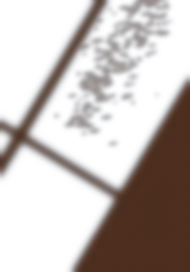
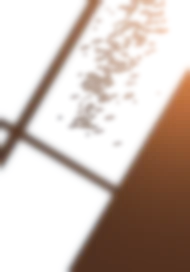
Widen A mood light phases and move 1x1 caption off the shoes

diff --git a/feature/widget/src/main/assets/mood/compose_ref.py b/feature/widget/src/main/assets/mood/compose_ref.py
@@ -18,7 +18,7 @@ MYEONG = REPO / 'core/designsystem/src/main/res/font/nanum_myeongjo.ttf'
 SERIF_IT = ('/System/Library/Fonts/Supplemental/PTSerif.ttc', 1)  # stand-in for Noto Serif Italic
 W, H, Q = 760, 1088, 4
 WEATHERS = ('sunny', 'cloudy', 'rain', 'night')
-PHASES = (0.0, 0.35, 0.7)
+PHASES = (0.0, 0.5, 1.0)
 RIM_D, RIM_COLOR, RIM_ALPHA = 4, (176, 168, 158), 0.75
 
 # ---------------------------------------------------------------- layout (the JSON contract) ----
@@ -36,7 +36,7 @@ SHOES = lambda cx=.40, cy=.93, r=-5: slot(cx, cy, 78, 3.6, r, 5)
 LAYOUT = {
     'size': [W, H], 'lightScale': Q,
     'shadeMax': {'sunny': 0.38, 'cloudy': 0.22, 'rain': 0.26, 'night': 0.30},
-    'lightMax': {'sunny': 0.24, 'cloudy': 0.10, 'rain': 0.14, 'night': 0.22},
+    'lightMax': {'sunny': 0.24, 'cloudy': 0.10, 'rain': 0.22, 'night': 0.28},
     'grainAlpha': 0.22, 'vignette': 0.30,
     'garmentGrade': {'sunny': {'multiply': '#FFEFDC', 'saturation': 0.90},
                      'cloudy': {'multiply': '#F2EEE8', 'saturation': 0.84},
@@ -60,7 +60,7 @@ LAYOUT = {
              'layouts': {'top_bottom': {'bottom': mslot(.62, .56, 370, .52, -4, 1), 'top': mslot(.42, .38, 245, 1.06, -12, 2),
                                         'shoes': mslot(.66, .90, 52, 3.6, -6, 3)},
                          'dress': {'dress': mslot(.52, .52, 450, .62, -4, 1), 'shoes': mslot(.66, .90, 52, 3.6, -6, 2)}},
-             'text': {'caption': {'rect': [44, 616, 400, 56], 'size': 40,
+             'text': {'caption': {'rect': [36, 28, 400, 56], 'size': 40,
                                   'color': {'sunny': '#6E5848', 'cloudy': '#625A53', 'rain': '#4E4D57', 'night': '#CFC6B8'}}}},
 }
 
@@ -112,19 +112,19 @@ def light_field(t, rain, soft, seed=7):
     for i in range(260):
         s_ = rng.random()
         px, py = bx - s_ * w * 1.3 + rng.normal(0, w * .16), by + s_ * h * 1.0 + rng.normal(0, h * .14)
-        sway = t * 3 * s_  # leaves farther from the branch sway a bit more
+        sway = t * 14 * s_  # leaves farther from the branch sway a bit more
         px, py = px + sway, py + sway * .5
-        L_ = (rng.random() * .5 + .6) * h * .042; th = rng.random() * math.pi + t * .3
+        L_ = (rng.random() * .5 + .6) * h * .042; th = rng.random() * math.pi + t * .9
         pts = [(px + math.cos(th + k * math.pi / 8) * L_ * (1 if k % 8 == 0 else .5) * abs(math.cos(k * math.pi / 16)) ** .3,
                 py + math.sin(th + k * math.pi / 8) * L_ * .45 * abs(math.cos(k * math.pi / 16)) ** .3) for k in range(16)]
         dr.ellipse((px - L_, py - L_ * .38, px + L_, py + L_ * .38), fill=255) if i % 2 else dr.polygon(pts, fill=255)
-    lf = np.asarray(leaf.rotate(rng.random() * 20 + t * 2, Image.BICUBIC).resize((w, h), Image.LANCZOS)
+    lf = np.asarray(leaf.rotate(rng.random() * 20 + t * 5, Image.BICUBIC).resize((w, h), Image.LANCZOS)
                     .filter(ImageFilter.GaussianBlur(1.6 * soft if not rain else 3 * soft))) / 255
     lit = blur(lit, h * .010 * soft) * (1 - .55 * lf)
     if rain:
         drops = np.zeros((h, w), np.float32); core = np.zeros_like(drops)
         for _ in range(int(w * h / 260)):
-            x, y = rng.random() * w, (rng.random() + t * .35 * (1 + rng.random())) % 1 * h
+            x, y = rng.random() * w, (rng.random() + t * .6 * (1 + rng.random())) % 1 * h
             r = rng.random() ** 2.5 * 3.6 + 1.0; y0i, x0i = int(y), int(x)
             y0, y1, x0, x1 = max(y0i - 8, 0), min(y0i + 9, h), max(x0i - 8, 0), min(x0i + 9, w)
             Y, X = np.mgrid[y0:y1, x0:x1]; dd = ((X - x) ** 2 + ((Y - y) * .85) ** 2) ** .5
@@ -171,7 +171,12 @@ def build_light(wx, t):
     shade = np.clip(1 - lf, 0, 1)
     glow = .3 * np.clip(lf, 0, 1) ** 2 + .7 * blur(np.clip(lf - .6, 0, 1), 5)
     # shaded areas get a faint rosy bounce so a black shade never reads olive on the warm sheet
-    rgb = np.clip(glow[..., None] * np.array(p['lightcol']) + shade[..., None] * np.array(p['bounce']), 0, 1)
+    rgb = glow[..., None] * np.array(p['lightcol']) + shade[..., None] * np.array(p['bounce'])
+    if p['lamp']:  # the lamp pool breathes across the phases
+        col, _, (cx, cy, rx, ry) = p['lamp']; yy, xx = np.mgrid[0:H // Q, 0:W // Q].astype(np.float32)
+        pool = np.exp(-(((xx * Q / W - cx) / rx) ** 2 + ((yy * Q / H - cy) / ry) ** 2))
+        rgb = rgb + (.25 + .75 * t) * pool[..., None] * np.array(col)
+    rgb = np.clip(rgb, 0, 1)
     return Image.fromarray((np.dstack([rgb, shade[..., None]]) * 255 + .5).astype(np.uint8), 'RGBA')
 
 def build_grain(seed=1):
